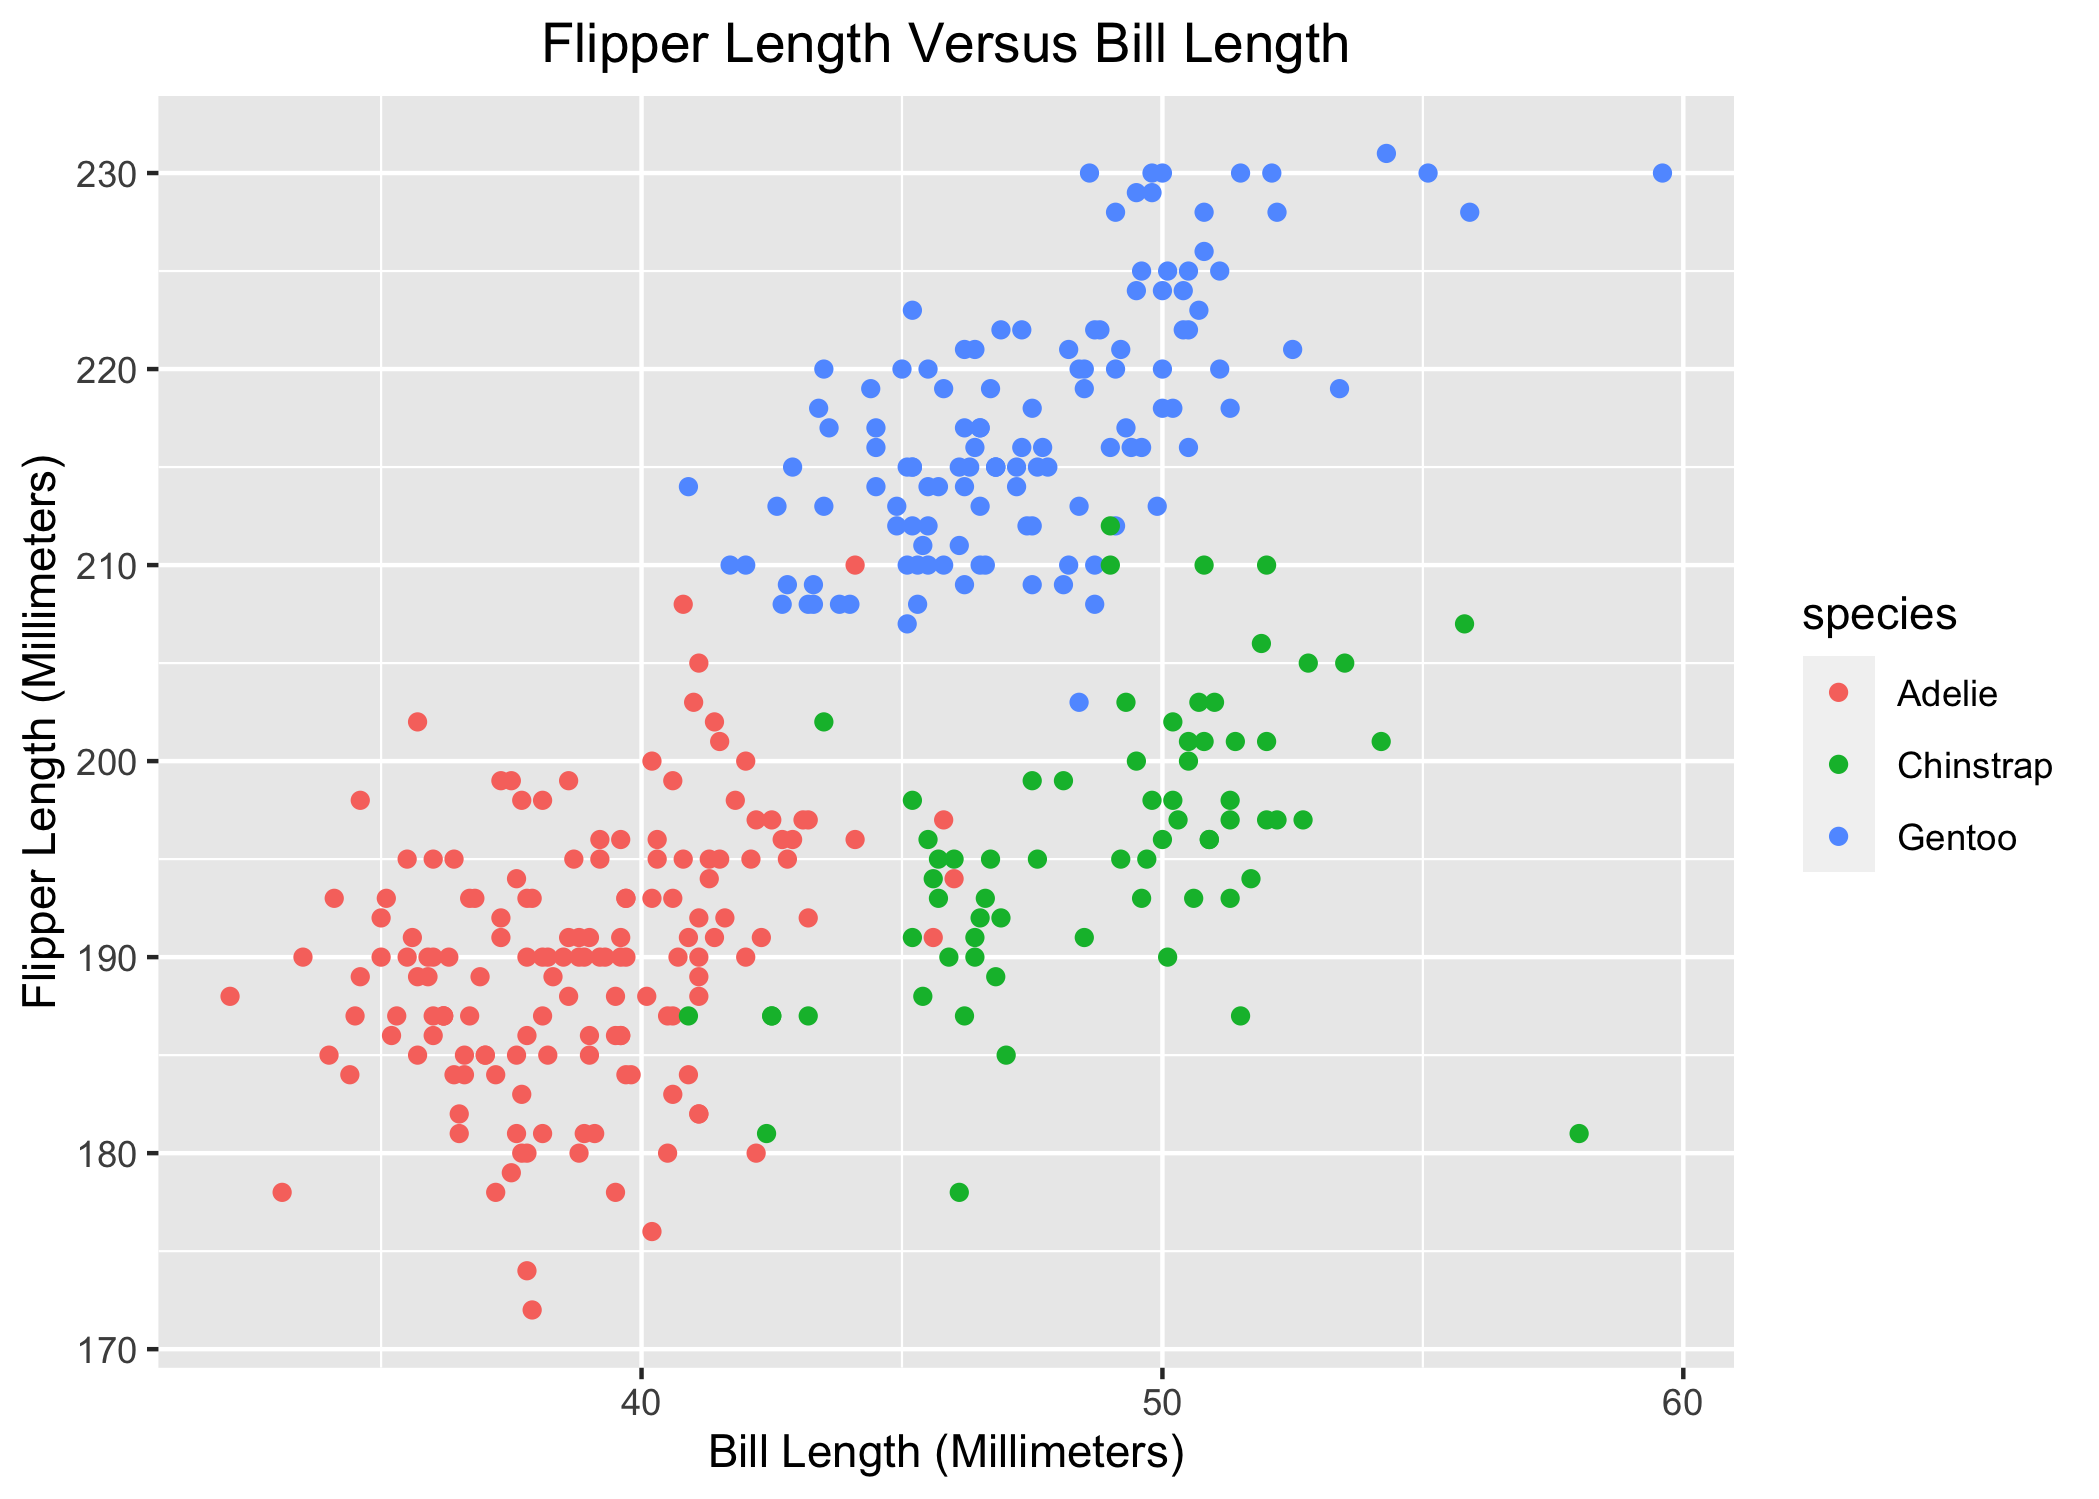
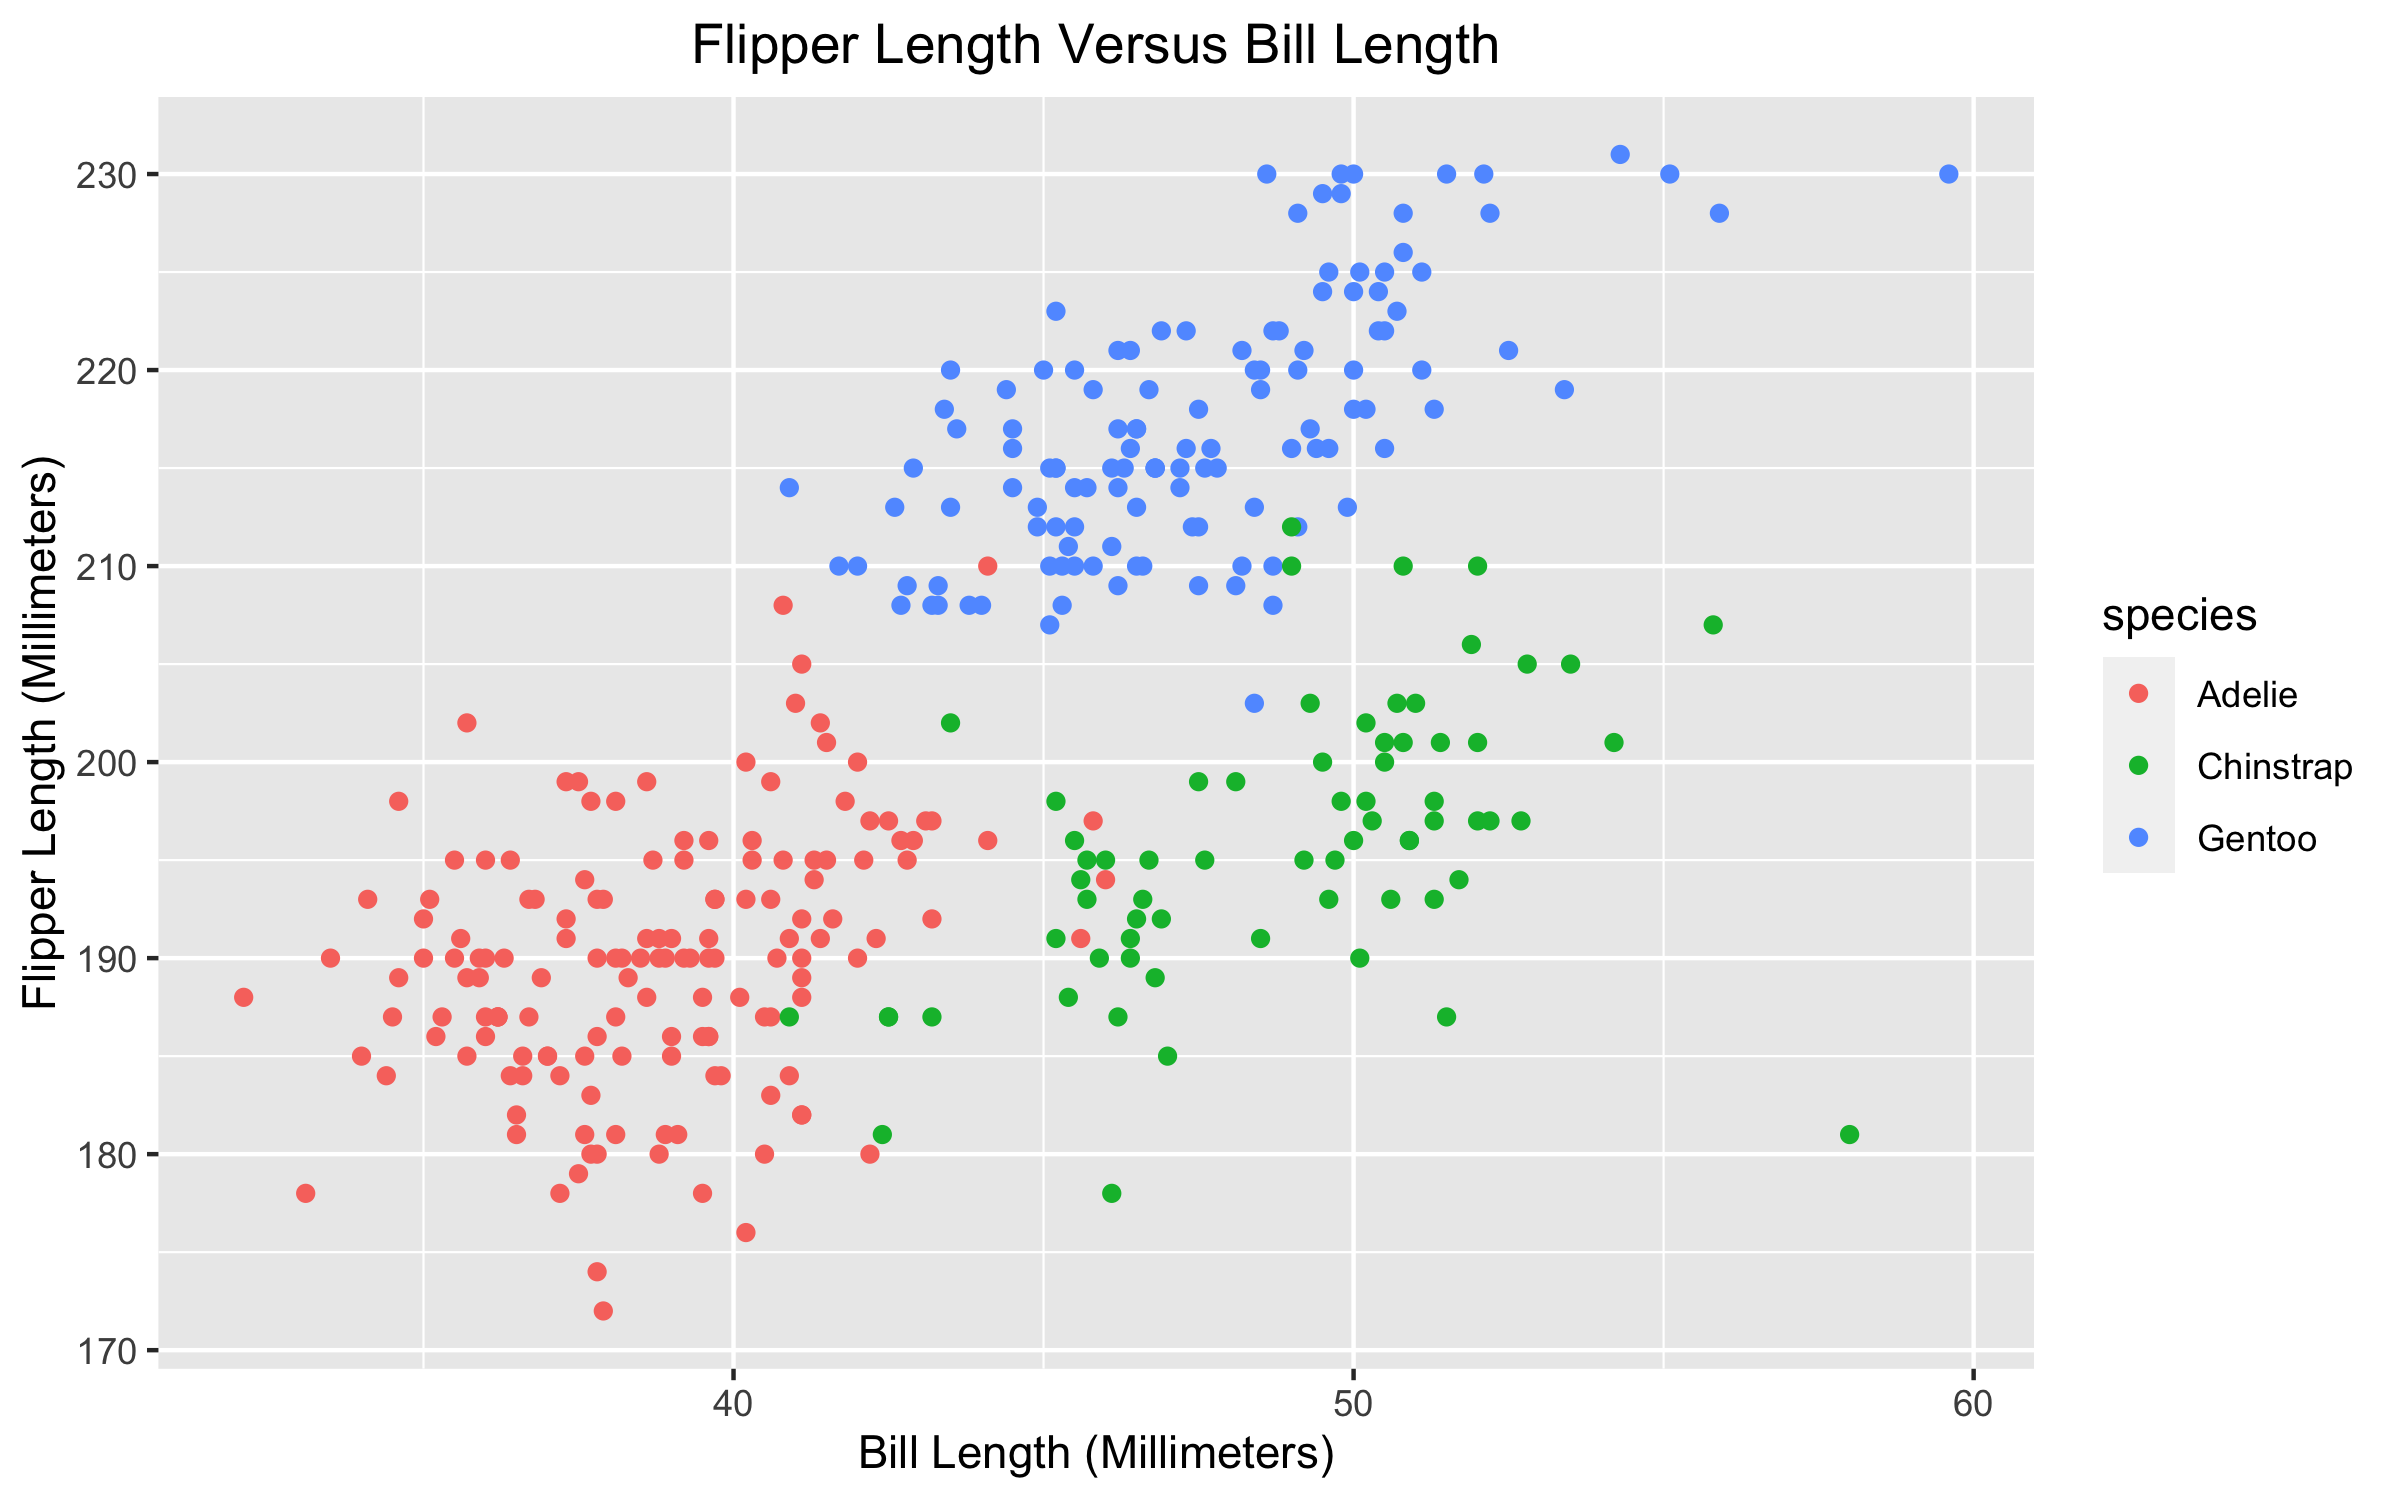
Cleaned up code for the scatter plot.

diff --git a/p8105_hw1_jmk2303.md b/p8105_hw1_jmk2303.md
@@ -120,8 +120,8 @@ as.numeric(pull(dataTypes, facVar))
 As mentioned earlier, coercion of our Boolean vector is straightforward.
 Our factor vector can also be coerced according to the map
 factor<sub>*k*</sub> ↦ *k*, where factor<sub>*k*</sub> denotes the *k*th
-factor level of our vector. R refuses to implement this coercion in
-computing means because the order of factors is arbitrary, though this
+factor level of our vector. While R refuses to implement this coercion
+in computing means because the order of factors is arbitrary, this
 manner of coercion can be useful in linear regression models with fixed
 effects, for example. However, because elements of our character vector
 contain non-numeric characters, coercion to a numeric vector is
@@ -199,7 +199,8 @@ bill length, we construct a scatter plot below.
 
 ``` r
 # create a scatter plot of flipper length versus bill length, by species
-ggplot(
+flipperBillScatter <- 
+  ggplot(
     data = penguins 
   , aes(
         x     = bill_length_mm    # x variable is bill length
@@ -217,11 +218,14 @@ ggplot(
   ) +
   # center the title of the graph
   theme(plot.title = element_text(hjust = 0.5))
+
+# output the scatter plot
+flipperBillScatter
 ```
 
 ![](p8105_hw1_jmk2303_files/figure-gfm/unnamed-chunk-10-1.png)<!-- -->
 
 ``` r
 # save the scatter plot
-ggsave("flipper_vs_bill_scatter.png")
+ggsave("flipper_vs_bill_scatter.png", flipperBillScatter, width = 8, height = 5)
 ```
